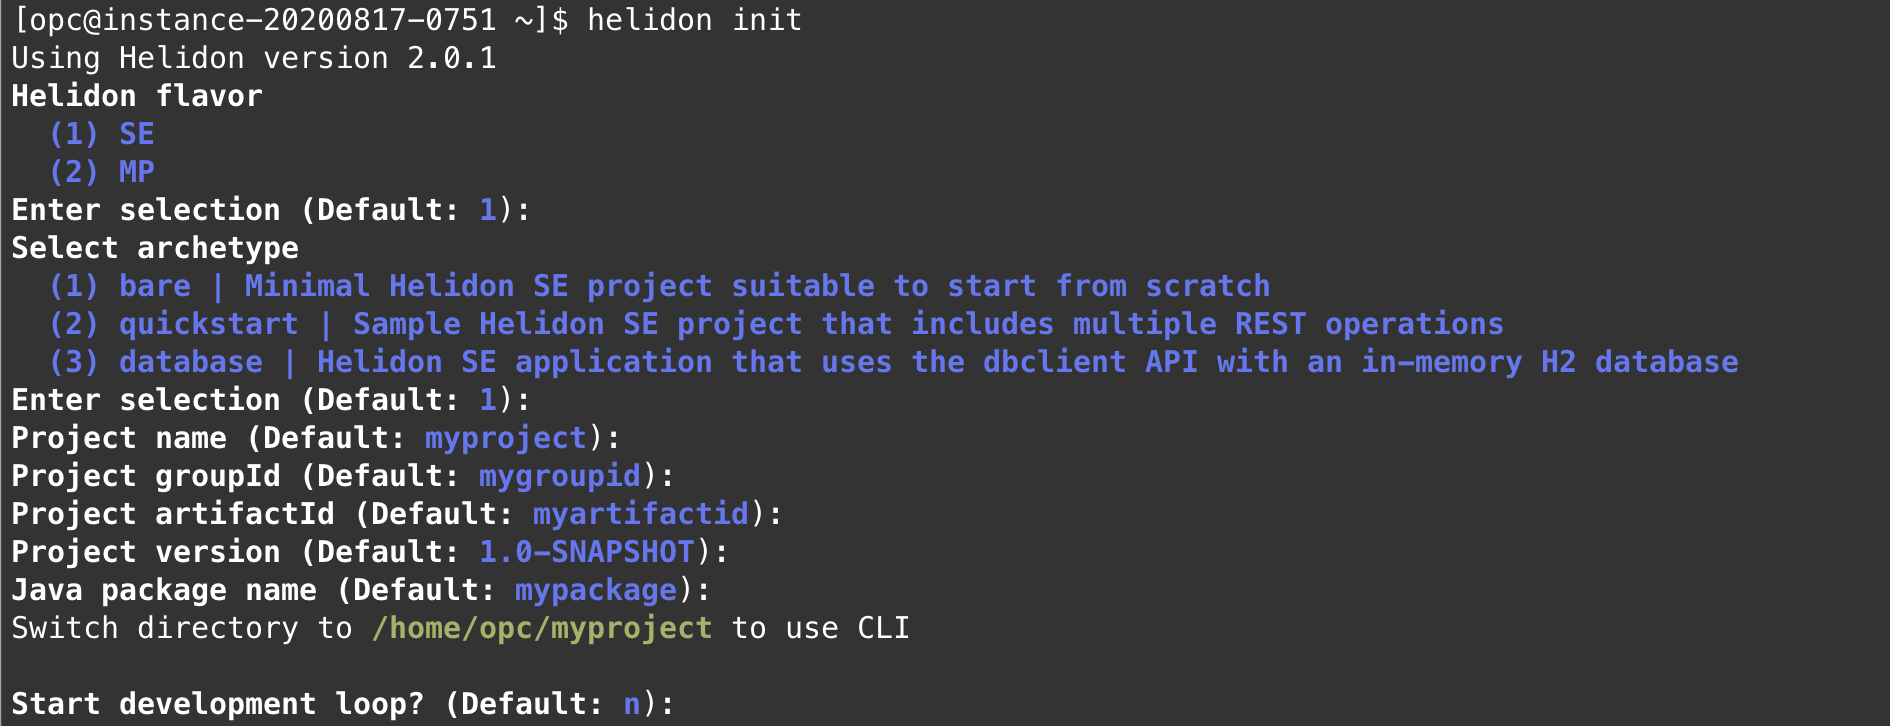
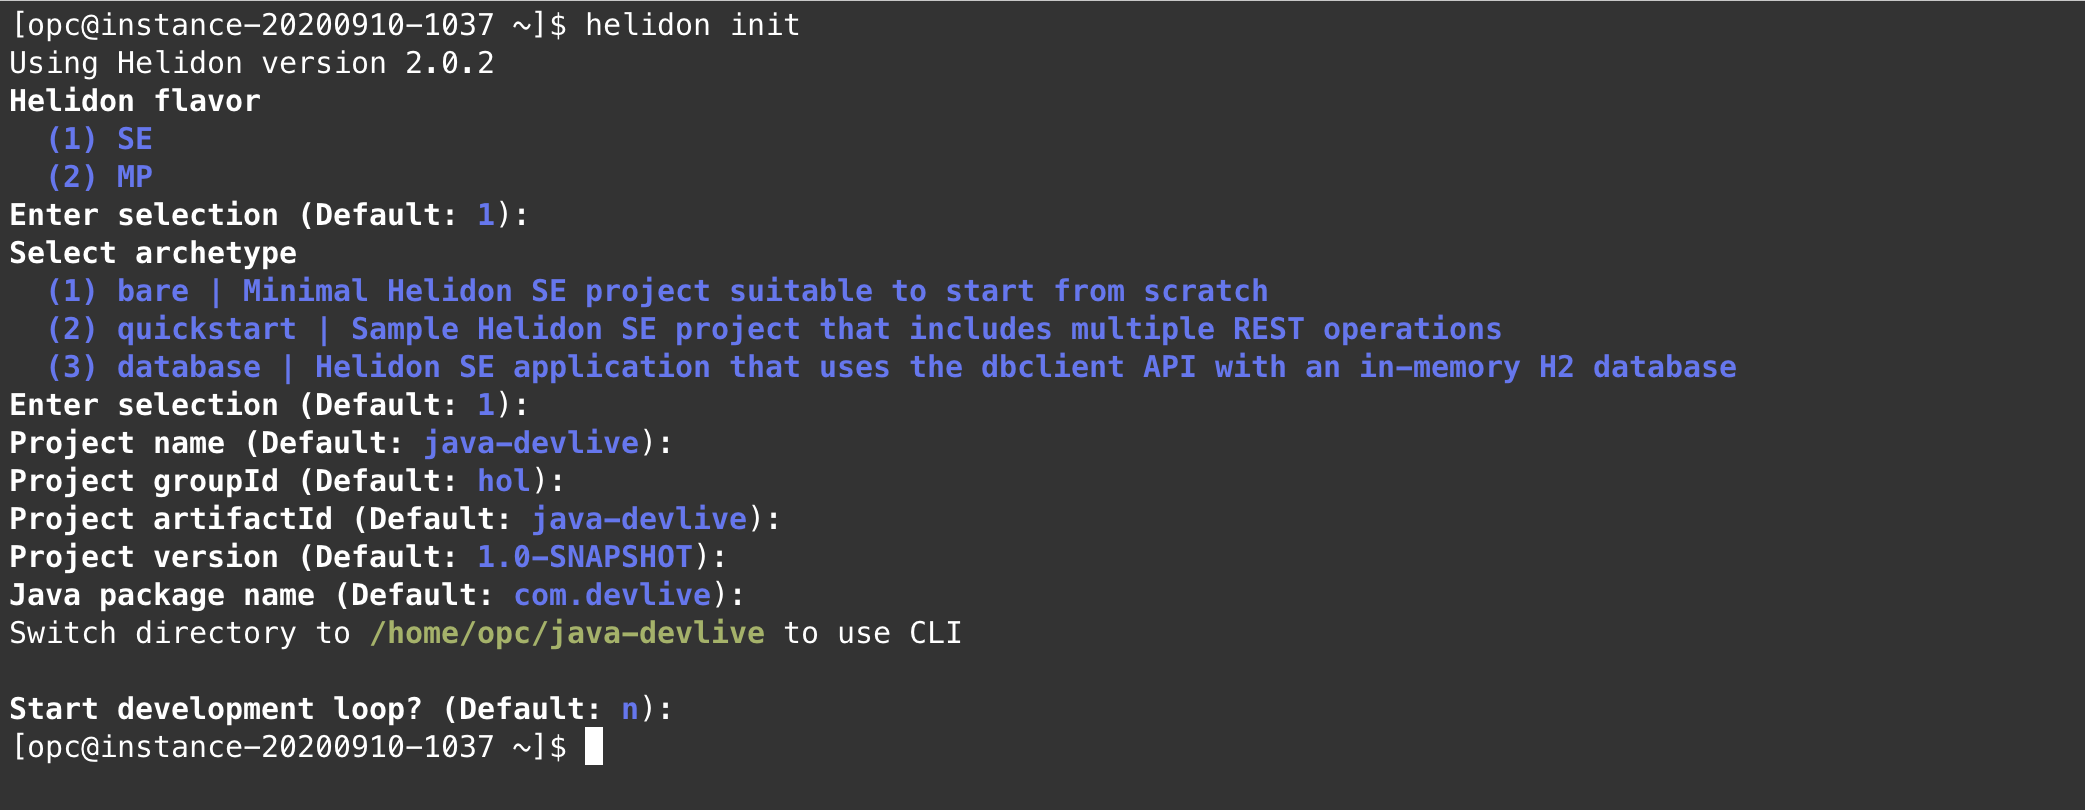
dry run cleaning

Changed region(s): [[0.0, 0.0, 0.9365, 1.0]]

diff --git a/lab2-conf-vm.md b/lab2-conf-vm.md
@@ -74,15 +74,21 @@ For this lab, you will configure a VM based instance using the a _VM shape_ and 
 ![](./images/lab2-9.png " ")
 
 
-3. Select a Virtual Machine shape: **Show Shape, Network, Storage Options ➡ Change Shape ➡ Virtual Machine**, pick **VM.Standard2.1** or any similarly sized shape as it is more than enough to run the lab. You can now confirm with  **Select Shape**.
+3. Select a Virtual Machine shape: **Show Shape, Network, Storage Options ➡ Change Shape ➡ Virtual Machine**, pick **VM.Standard2.1** or any similarly sized **VM.Standardx.x** shape as it is more than enough to run the lab. You can now confirm with  **Select Shape**.
 
 ![](./images/lab2-9bis.png " ")
 
+
+4. Check the network settings. By default, the network should be configured to use your VNC with a public IP address.
+
+![](./images/lab2-9ter.png " ")
+
+
 ⚠ OCI will generate the SSH keys pair required to authenticate in this new instance.
-You must save the generated private key on your machine. Without it, your instance will be useless as you won't be able to log in! The generated public key will be automatically configured in the instance during the provisioning.
+You must save the generated private key on your machine. Without it, your instance will be useless as you won't be able to log in! The generated public key will be automatically configured in the instance during its provisioning.
 
 
-3. Hit **Save Private Key**. Depending on your browser, the private key will either be downloaded and saved on your machine (ex. in the `~/Downloads` folder) or you might get a prompt asking where it should be saved.
+4. Hit **Save Private Key**. Depending on your browser, the private key will either be downloaded and saved on your machine (ex. in the `~/Downloads` folder) or you might get a prompt asking where it should be saved.
 
 ![](./images/lab2-10.png " ") 
 
@@ -103,11 +109,11 @@ In a shell on your computer, use `ssh` to connect to the instance on OCI: `ssh {
 The default OEL username is **opc**. You also need to specify the path of the private key using the `-i` flag.
 The final command should look like :
 
-`ssh -i ~/Downloads/ssh-key-2020-09-xx.key opc@158.xxx.xxx.xxx`.
+`ssh -i ~/Downloads/ssh-key-2020-09-xx.key -o IdentityAgent=none opc@158.xxx.xxx.xxx`
 
 💡 Some OS (ex. OSX) might refuse to establish the conncetion, and complain about your private key's permissions being too loose (ex. "WARNING: UNPROTECTED PRIVATE KEY FILE!"). If that's the case, make sure to adjust your private key's permissions so that it can't be read by others:
 
- `chmod 700 ssh-key-2020-xxx.key`
+ `chmod 400 ~/Downloads/ssh-key-2020-xxx.key`
 
 You will get a message saying "The authenticity of host '158.xxx.xxx.xxx' can't be established…", you can ignore it by typing **yes**. You are now connected to your OCI instance!
 
@@ -123,7 +129,7 @@ You know have a VM running Linux on OCI. Next, you will install the latest versi
 In your instance, run the following command:
 
 ```
-source <(curl -L https://gist.githubusercontent.com/delabassee/a11e09dcf5a85dae87a5fd6a96ce77ea/raw/73f8fa49b1e717b96192c3a7c6398c72fe26fe48/vm-setup.sh)
+source <(curl -L https://gist.githubusercontent.com/delabassee/a11e09dcf5a85dae87a5fd6a96ce77ea/raw/f93751cdce3451b2aee6ba468dd5964c74571258/vm-setup.sh)
 ```
 
 The script should take around ~90 seconds. In the meantime, you can check what it is doing by typing its URL (https://gist.githubusercontent.com/delabassee/...) in a browser. In a nutshell, the script: 

diff --git a/lab3-helidon.md b/lab3-helidon.md
@@ -10,7 +10,7 @@ In this 5-minutes lab, you will create a simple Microservices exposing a REST en
 
 For more information, please check [https://helidon.io/](https://helidon.io/).
 
-💡 This lab is using Helidon SE as it is simple, lightweight, and fast. Obviously, all the Java features discussed in this HoL can be used with any framework supporting the latest version of Java. Moreover, this lab is only using a small fraction of Helidon's capabilities.
+💡 This lab is using Helidon SE as it is simple, lightweight, and fast. Obviously, all the Java features discussed can be used with any framework supporting the latest version of Java. Moreover, this lab is only using a small fraction of Helidon's capabilities.
  
 ## Initialize a Helidon project
 
@@ -20,16 +20,16 @@ Run `helidon init`, and select the suggested options (**SE flavor**, **bare Mini
 
 ![](./images/lab3-1.png " ")
 
-If you check the newly generated project (`tree -C myproject`), you will notice it is a Maven project:
+Go into the project directory (`cd java-devlive`), and check the newly generated project (`tree -C .`). You should notice it is a Maven project:
 * there is `pom.xml`,
-* sources are located in `src/main/java/mypackage`,
-* tests are located in `src/test/java/mypackage`, etc.
+* sources are located in `src/main/java/com/devlive/`,
+* tests are located in `src/test/java/com/devlive/`, etc.
 
 ![](./images/lab3-2.png " ")
 
 ## Build and test an Helidon project
 
-You can build the Helidon project using the `mvn package` command in the `myproject` directory. 
+You can build the Helidon project using the `mvn package` command in the `java-devlive` directory. 
 
 ![](./images/lab3-3.png " ")
 
@@ -39,7 +39,7 @@ You can now check the project's target directory (`tree -C target`), it contains
 
 ![](./images/lab3-4.png " ")
 
-To run the application, simply use `java -jar target/myartifactid.jar`
+To run the application, simply use `java -jar target/java-devlive.jar`
 
 ![](./images/lab3-5.png " ")
 
@@ -55,7 +55,7 @@ Let's now try to grasp how things work by checking the sources.
 
 #### _Main.java_
 
-`bat src/main/java/mypackage/Main.java`
+`bat src/main/java/com/devlive/Main.java`
 
 This is the main class of the application. Amongst other things, its `startServer` method
 * creates a Webserver instance,
@@ -96,7 +96,7 @@ server.start();
 
 #### _GreetService.java_
 
-Let's now look at _src/main/java/mypackage/GreetService.java_, we notice that this class implements the [io.helidon.webserver.Service](https://helidon.io/docs/v2/apidocs/io.helidon.webserver/io/helidon/webserver/Service.html) functional interface which has the `update` method.
+Let's now look at the 2nd class (`bat src/main/java/com/devlive/GreetService.java`), we notice that this class implements the [io.helidon.webserver.Service](https://helidon.io/docs/v2/apidocs/io.helidon.webserver/io/helidon/webserver/Service.html) functional interface which has the `update` method.
 ```Java
 public class GreetService implements Service …
 ```
